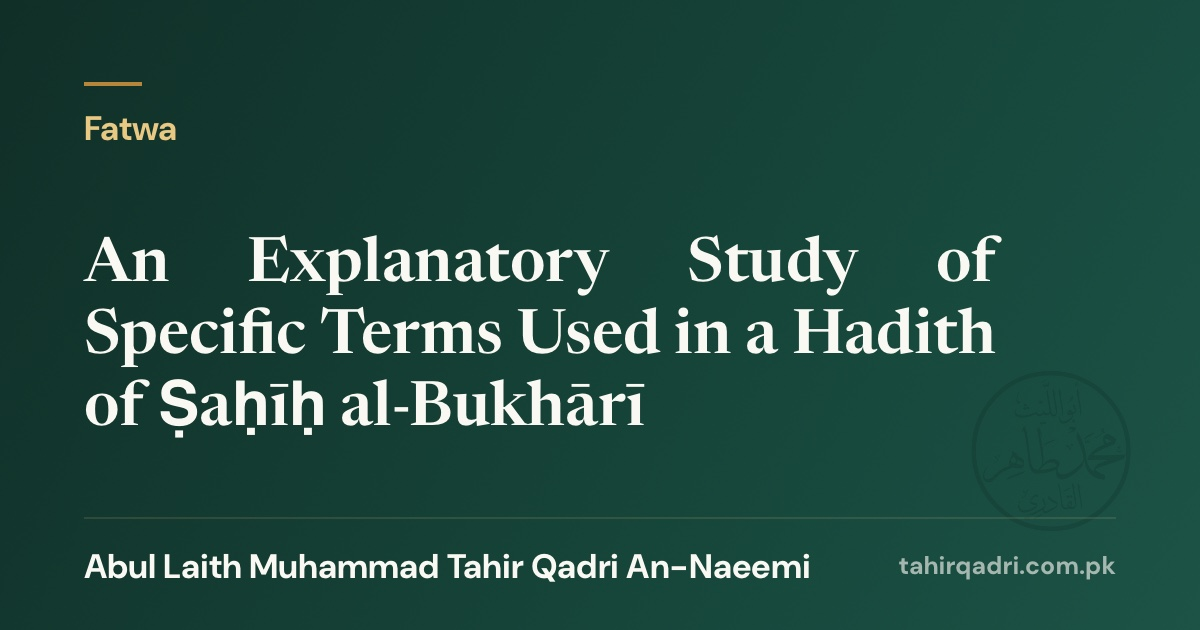
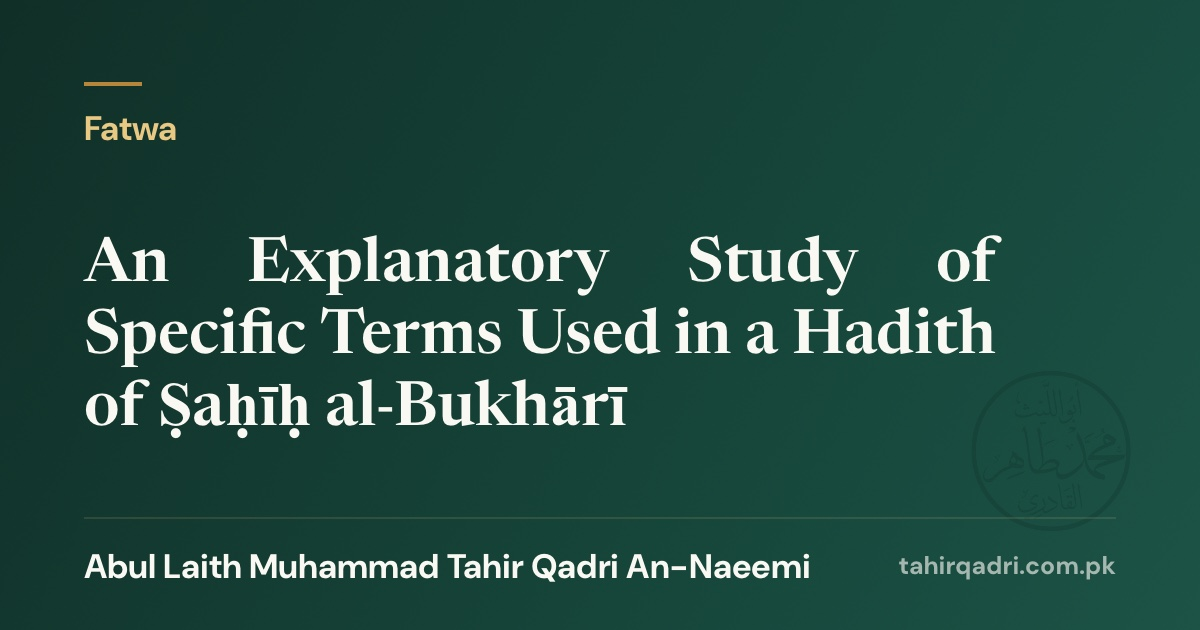
Update from the editor
content.js, sitemap.xml, index.html, works/otherthan-falaq-nas-dam.html, files/cards/otherthan-falaq-nas-dam.jpg, files/cards/wealth-abdul-rehman-ibn-auf.jpg, files/cards/aik-hadees-ka-matlab.jpg

Published by tahir.razavi@gmail.com

Changed region(s): [[0.1233, 0.6032, 0.555, 0.6937]]

diff --git a/works/otherthan-falaq-nas-dam.html b/works/otherthan-falaq-nas-dam.html
@@ -1,0 +1,58 @@
+<!doctype html>
+<html lang="ur">
+  <head>
+    <meta charset="UTF-8" />
+    <meta name="viewport" content="width=device-width, initial-scale=1.0" />
+    <title>کیا سورۂ فلق اور ناس کے علاوہ دوسرے اوراد اور دم ناجائز ہیں؟ — Abul Laith Muhammad Tahir Qadri An-Naeemi</title>
+    <meta name="description" content="When the magic performed upon the Noble Prophet ﷺ was dispelled by means of Sūrah al-Falaq and Sūrah al-Nās, does any need or justification remain for reciting other awrād (litany) or performing other forms of dam (ruqyah)? And what is the Sharʿī ruling on the methods and practices of the prevalent spiritual rituals, taʿwīzāt (amulets), and their commercialization?" />
+    <meta name="author" content="Abul Laith Muhammad Tahir Qadri An-Naeemi" />
+    <link rel="canonical" href="https://tahirqadri.com.pk/works/otherthan-falaq-nas-dam.html" />
+
+    <meta property="og:type" content="article" />
+    <meta property="og:title" content="کیا سورۂ فلق اور ناس کے علاوہ دوسرے اوراد اور دم ناجائز ہیں؟" />
+    <meta property="og:description" content="جب سُورۂ فَلَق اور سُورۂ نَاس کے ذریعے حُضُورِ اَقدَس ﷺ پر کیے گئے جادو کا اَثر زائل ہوگیا، تو کیا اس کے علاوہ دِیگر اَوراد و اَذکار اور دَم وغیرہ کی کوئی حاجت یا شرعی جواز باقی رہتا ہے؟ نیز رائج مُروجہ عَمَلیات و تَعویذات کے طریقۂ کار اور ان کے کاروبار کا شرعی حکم کیا ہے؟" />
+    <meta property="og:url" content="https://tahirqadri.com.pk/works/otherthan-falaq-nas-dam.html" />
+    <meta property="og:image" content="https://tahirqadri.com.pk/files/cards/otherthan-falaq-nas-dam.jpg" />
+    <meta name="twitter:card" content="summary_large_image" />
+
+    <link rel="icon" type="image/png" sizes="32x32" href="../files/images/logo-circle-32.png" />
+    <link rel="apple-touch-icon" href="../files/images/logo-circle-180.png" />
+    <link rel="preconnect" href="https://fonts.googleapis.com" />
+    <link rel="preconnect" href="https://fonts.gstatic.com" crossorigin />
+    <link href="https://fonts.googleapis.com/css2?family=Amiri:wght@400;700&family=DM+Sans:opsz,wght@9..40,400;9..40,700&family=Newsreader:ital,opsz,wght@0,6..72,400;0,6..72,600;1,6..72,400&family=Noto+Nastaliq+Urdu:wght@400;500;600&display=swap" rel="stylesheet" />
+    <link rel="stylesheet" href="../styles.css" />
+    <script type="application/ld+json">{"@context":"https://schema.org","@type":"CreativeWork","name":"کیا سورۂ فلق اور ناس کے علاوہ دوسرے اوراد اور دم ناجائز ہیں؟","inLanguage":"ur","description":"When the magic performed upon the Noble Prophet ﷺ was dispelled by means of Sūrah al-Falaq and Sūrah al-Nās, does any need or justification remain for reciting other awrād (litany) or performing other forms of dam (ruqyah)? And what is the Sharʿī ruling on the methods and practices of the prevalent spiritual rituals, taʿwīzāt (amulets), and their commercialization?","genre":"فتویٰ","keywords":"سورۂ فلق, سورۂ ناس, دم, رُقْیہ, جواز, عملیات, وظائف","url":"https://tahirqadri.com.pk/works/otherthan-falaq-nas-dam.html","author":{"@type":"Person","name":"Abul Laith Muhammad Tahir Qadri An-Naeemi","alternateName":"أبو اللّیث محمد طاہر القادری النّعیمی","url":"https://tahirqadri.com.pk/"},"isPartOf":{"@type":"Collection","name":"Islamic rulings","url":"https://tahirqadri.com.pk/"},"associatedMedia":[{"@type":"MediaObject","name":"Urdu PDF","contentUrl":"https://tahirqadri.com.pk/files/my-fatawa/%E2%80%8E%E2%81%A8%DA%A9%DB%8C%D8%A7%20%D9%85%D8%B9%"}]}</script>
+  </head>
+
+  <body class="work-page">
+    <header class="site-header">
+      <a class="brand" href="../index.html"><img class="brand-mark" src="../files/images/logo-circle-180.png" alt="" width="180" height="180" /> Scholarly Works and Research</a>
+      <nav class="header-nav" aria-label="Sections">
+        <a href="../index.html#about">Author</a>
+        <a class="nav-echo" href="../index.html#library">Library</a>
+        <a class="nav-echo" href="../index.html#rulings">Fatawa</a>
+        <a href="../index.html#contact">Contact</a>
+      </nav>
+    </header>
+
+    <main class="work-page-main">
+      <article class="work-hero" dir="rtl">
+        <a class="back-link" href="../index.html#rulings"><span aria-hidden="true">→</span> Islamic rulings</a>
+        <p class="section-label urdu" lang="ur" dir="rtl">فتویٰ</p>
+        <h1 class="record-title urdu" lang="ur" dir="rtl">کیا سورۂ فلق اور ناس کے علاوہ دوسرے اوراد اور دم ناجائز ہیں؟</h1>
+        <p class="work-date" dir="ltr">15 September 2026</p>
+        <p class="work-page-description urdu" lang="ur" dir="rtl">جب سُورۂ فَلَق اور سُورۂ نَاس کے ذریعے حُضُورِ اَقدَس ﷺ پر کیے گئے جادو کا اَثر زائل ہوگیا، تو کیا اس کے علاوہ دِیگر اَوراد و اَذکار اور دَم وغیرہ کی کوئی حاجت یا شرعی جواز باقی رہتا ہے؟ نیز رائج مُروجہ عَمَلیات و تَعویذات کے طریقۂ کار اور ان کے کاروبار کا شرعی حکم کیا ہے؟</p><p class="work-page-description" dir="ltr">When the magic performed upon the Noble Prophet <span class="arabic-inline" lang="ar" dir="rtl">ﷺ</span> was dispelled by means of Sūrah al-Falaq and Sūrah al-Nās, does any need or justification remain for reciting other awrād (litany) or performing other forms of dam (ruqyah)? And what is the Sharʿī ruling on the methods and practices of the prevalent spiritual rituals, taʿwīzāt (amulets), and their commercialization?</p>
+        <div class="work-page-files" id="work-page-files"><span class="file-item"><a class="button" href="../files/my-fatawa/%E2%80%8E%E2%81%A8%DA%A9%DB%8C%D8%A7%20%D9%85%D8%B9%" target="_blank" rel="noopener">Urdu PDF <svg class="icon icon-inline" aria-hidden="true" focusable="false"><use href="#i-open"/></svg></a><a class="file-download" href="../files/my-fatawa/%E2%80%8E%E2%81%A8%DA%A9%DB%8C%D8%A7%20%D9%85%D8%B9%" download aria-label="Download Urdu PDF">Download <svg class="icon icon-inline" aria-hidden="true" focusable="false"><use href="#i-download"/></svg></a></span></div>
+        <ul class="tag-row"><li class="tag urdu" lang="ur" dir="rtl">سورۂ فلق</li><li class="tag urdu" lang="ur" dir="rtl">سورۂ ناس</li><li class="tag urdu" lang="ur" dir="rtl">دم</li><li class="tag urdu" lang="ur" dir="rtl">رُقْیہ</li><li class="tag urdu" lang="ur" dir="rtl">جواز</li><li class="tag urdu" lang="ur" dir="rtl">عملیات</li><li class="tag urdu" lang="ur" dir="rtl">وظائف</li></ul>
+      </article>
+    </main>
+
+    <footer>
+      <span>© <span id="year"></span> Abul Laith Muhammad Tahir Qadri An-Naeemi</span>
+      <a href="../index.html">All works</a>
+    </footer>
+
+    <script src="../content.js"></script>
+    <script src="../common.js"></script>
+  </body>
+</html>

diff --git a/index.html b/index.html
@@ -167,6 +167,13 @@
         <div class="recent-rail" id="recent-rail">
           <button class="category-arrow category-arrow-start" type="button" id="recent-back" aria-label="Scroll back" tabindex="-1">‹</button>
           <div class="recent-track" id="recent-track">
+            <a class="recent-card" href="works/otherthan-falaq-nas-dam.html">
+              <svg class="icon recent-mark" aria-hidden="true" focusable="false"><use href="#i-seal"/></svg>
+              <span class="recent-card-body reads-rtl" dir="rtl">
+                <span class="record-title urdu" lang="ur" dir="rtl">کیا سورۂ فلق اور ناس کے علاوہ دوسرے اوراد اور دم ناجائز ہیں؟</span>
+                <span class="work-line"><span class="work-kind urdu" lang="ur" dir="rtl">فتویٰ</span><span class="record-meta" dir="ltr">15 September 2026</span></span>
+              </span>
+            </a>
             <a class="recent-card" href="posts/the-strong-and-the-trustworthy.html">
               <svg class="icon recent-mark" aria-hidden="true" focusable="false"><use href="#i-pen"/></svg>
               <span class="recent-card-body reads-ltr" dir="ltr">
@@ -214,13 +221,6 @@
               <span class="recent-card-body reads-ltr" dir="ltr">
                 <span class="record-title latin" lang="en" dir="ltr">The Books That Aren’t Coming Back</span>
                 <span class="work-line"><span class="work-kind latin" lang="en" dir="ltr">Essay</span><span class="record-meta" dir="ltr">4 August 2026</span></span>
-              </span>
-            </a>
-            <a class="recent-card" href="posts/kitabein-mashin-ki-khurak.html">
-              <svg class="icon recent-mark" aria-hidden="true" focusable="false"><use href="#i-pen"/></svg>
-              <span class="recent-card-body reads-rtl" dir="rtl">
-                <span class="record-title urdu" lang="ur" dir="rtl">کتابیں خرید کر کاٹی جا رہی ہیں، مشین کی خوراک کے لیے</span>
-                <span class="work-line"><span class="work-kind urdu" lang="ur" dir="rtl">مضمون</span><span class="record-meta" dir="ltr">4 August 2026</span></span>
               </span>
             </a>
           </div>

diff --git a/content.js b/content.js
@@ -514,6 +514,20 @@ window.siteContent = {
   /* Fatāwā. Same fields as a work — id, title, language, description, files. */
   rulings: [
     {
+      id: "otherthan-falaq-nas-dam",
+      title: "کیا سورۂ فلق اور ناس کے علاوہ دوسرے اوراد اور دم ناجائز ہیں؟",
+      language: "ur",
+      kind: "فتویٰ",
+      date: "2026-09-15",
+      updated: "2026-09-25",
+      description: "When the magic performed upon the Noble Prophet ﷺ was dispelled by means of Sūrah al-Falaq and Sūrah al-Nās, does any need or justification remain for reciting other awrād (litany) or performing other forms of dam (ruqyah)? And what is the Sharʿī ruling on the methods and practices of the prevalent spiritual rituals, taʿwīzāt (amulets), and their commercialization?",
+      descriptionUr: "جب سُورۂ فَلَق اور سُورۂ نَاس کے ذریعے حُضُورِ اَقدَس ﷺ پر کیے گئے جادو کا اَثر زائل ہوگیا، تو کیا اس کے علاوہ دِیگر اَوراد و اَذکار اور دَم وغیرہ کی کوئی حاجت یا شرعی جواز باقی رہتا ہے؟ نیز رائج مُروجہ عَمَلیات و تَعویذات کے طریقۂ کار اور ان کے کاروبار کا شرعی حکم کیا ہے؟",
+      tags: ["سورۂ فلق", "سورۂ ناس", "دم", "رُقْیہ", "جواز", "عملیات", "وظائف"],
+      files: [
+        { label: "Urdu PDF", url: "files/my-fatawa/%E2%80%8E%E2%81%A8%DA%A9%DB%8C%D8%A7%20%D9%85%D8%B9%" }
+      ]
+    },
+    {
       id: "zakat-tax-credit",
       title: "Tax credit on zakat paid to non-profit organisations",
       language: "en",
